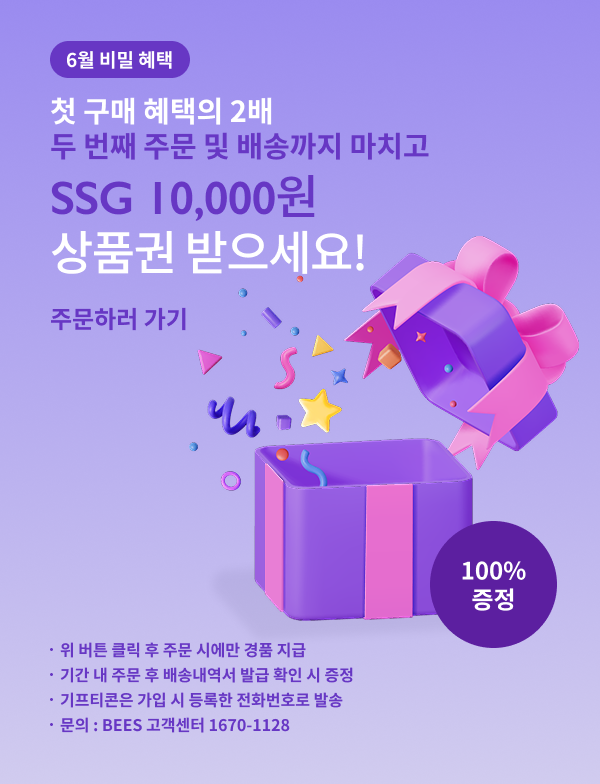
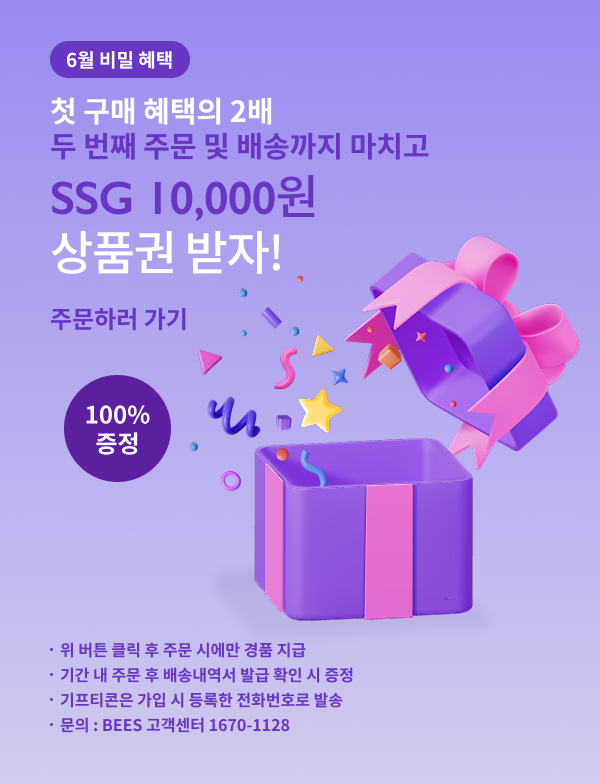
update4

Changed region(s): [[0.72, 0.6429, 0.93, 0.8265], [0.09, 0.4592, 0.3, 0.6122], [0.36, 0.2755, 0.63, 0.3673]]

diff --git a/carousel_banner_3.html b/carousel_banner_3.html
@@ -1,0 +1,18 @@
+<!DOCTYPE html>
+<html lang="en">
+<head>
+    <meta charset="UTF-8">
+    <meta name="viewport" content="width=device-width, initial-scale=1.0">
+    <title>BEES</title>
+    <link rel="stylesheet" href="./css/style.css">
+</head>
+<body>
+    <div class="wrap" style="margin: 0 auto; max-width: 600px; width: 100%; position: fixed; bottom:0; left:0; right:0;">
+        <div class="carousel-item">
+            <img src="./img/img7.png" alt="text">
+            <img class="move" src="./img/img8.png" alt="text">
+            <img src="./img/img9.png" alt="text">
+        </div>
+    </div>
+</body>
+</html>

diff --git a/index.html b/index.html
@@ -17,6 +17,9 @@
         <li>
             <a href="./carousel_banner_2.html">캐러셀배너2</a>
         </li>
+        <li>
+            <a href="./carousel_banner_3.html">캐러셀배너3</a>
+        </li>
     </ul>
 </body>
 </html>
